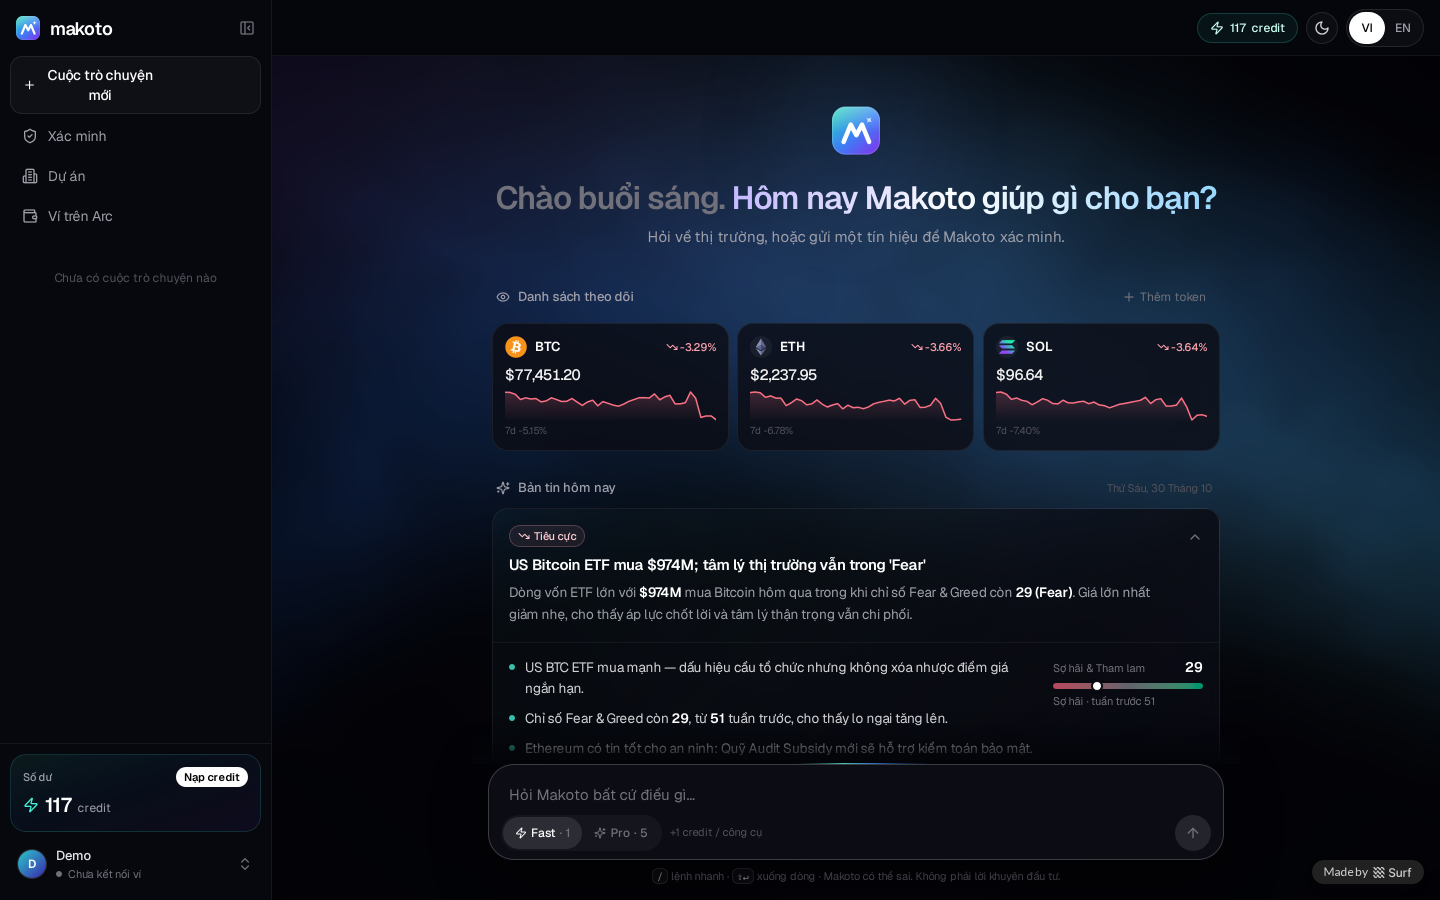
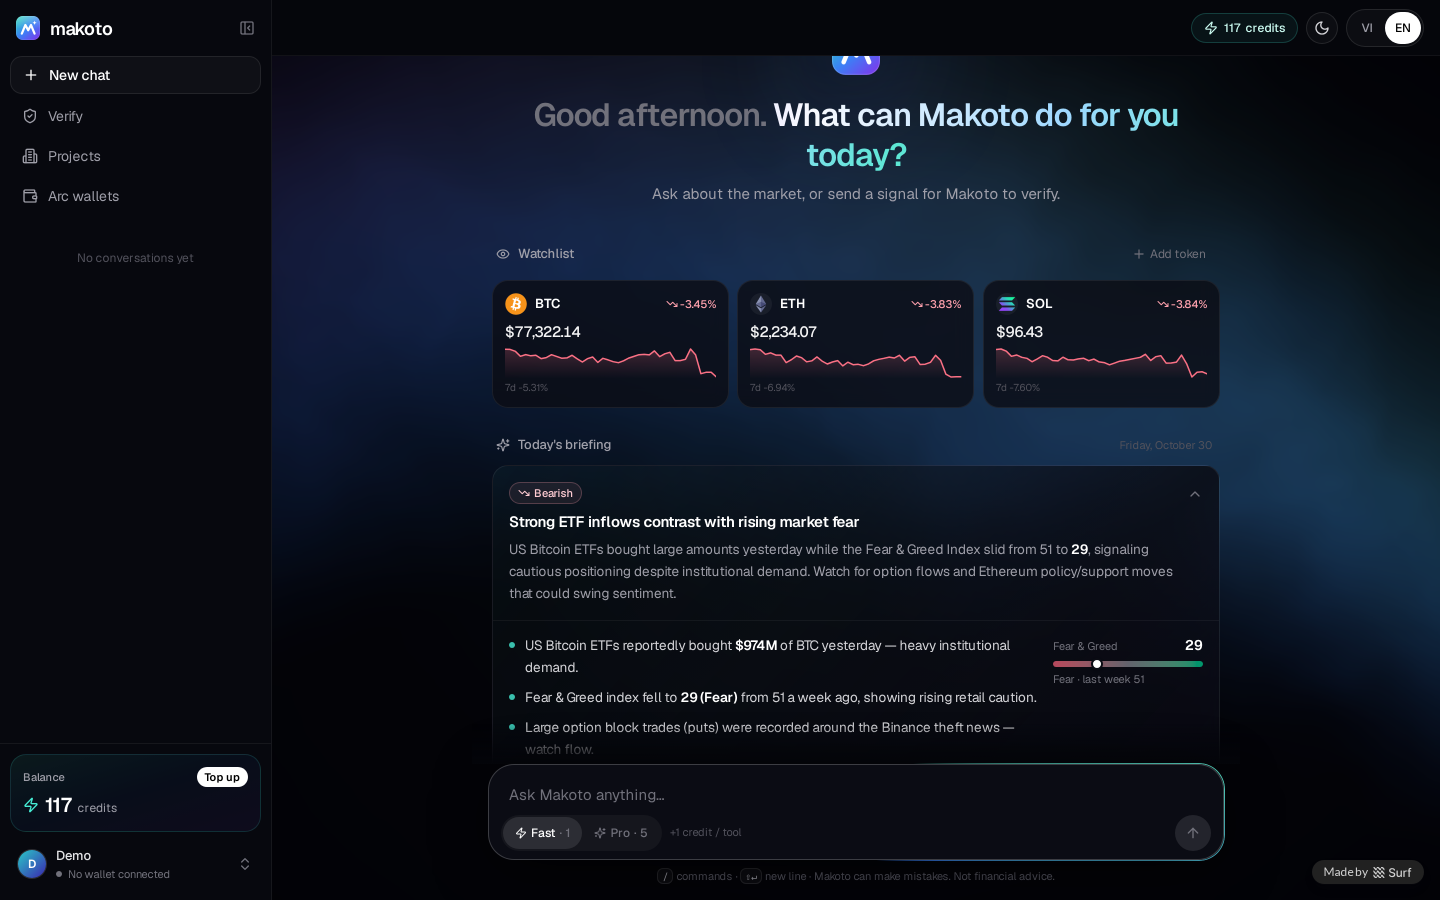
Docs: English README, hero image and screenshots

diff --git a/README.md b/README.md
@@ -1,17 +1,17 @@
 <div align="center">
 
-<img src="docs/hero.png" alt="Makoto — Xác minh trước khi đầu tư" width="100%" />
+<img src="docs/hero.png" alt="Makoto — Verify before you invest" width="100%" />
 
 <br />
 
 # Makoto
 
-**Nền tảng AI xác minh thông tin crypto cho người Việt.**
-Dán một tín hiệu, tin đồn hay địa chỉ token. Makoto đối chiếu với dữ liệu on-chain và thị trường thật, rồi trả về **điểm tin cậy 0–100** kèm lý do rõ ràng.
+**AI-powered verification for crypto signals.**
+Paste a trading signal, rumour or token address. Makoto cross-checks it against live on-chain and market data and returns a **0–100 trust score** with clear reasoning.
 
 [![Live](https://img.shields.io/badge/Live-makotoai.xyz-2DD4BF?style=for-the-badge)](https://makotoai.xyz)
 [![Arc Testnet](https://img.shields.io/badge/Arc-Testnet-3B82F6?style=for-the-badge)](https://explorer.testnet.arc.io)
-[![USDC](https://img.shields.io/badge/Thanh%20toán-USDC-7C3AED?style=for-the-badge)](https://faucet.circle.com)
+[![USDC](https://img.shields.io/badge/Payments-USDC-7C3AED?style=for-the-badge)](https://faucet.circle.com)
 
 [![React](https://img.shields.io/badge/React-19-149ECA?logo=react&logoColor=white)](https://react.dev)
 [![Vite](https://img.shields.io/badge/Vite-646CFF?logo=vite&logoColor=white)](https://vitejs.dev)
@@ -20,132 +20,137 @@ Dán một tín hiệu, tin đồn hay địa chỉ token. Makoto đối chiếu
 [![PostgreSQL](https://img.shields.io/badge/PostgreSQL-4169E1?logo=postgresql&logoColor=white)](https://www.postgresql.org)
 [![OpenAI](https://img.shields.io/badge/OpenAI-412991?logo=openai&logoColor=white)](https://openai.com)
 
-[Dùng thử](https://makotoai.xyz) · [Tính năng](#-tính-năng) · [Cách hoạt động](#-cách-makoto-xác-minh) · [Chạy local](#-chạy-local) · [English](#-english)
+[Try it](https://makotoai.xyz) · [Features](#-features) · [How it works](#-how-verification-works) · [Run locally](#-run-locally) · [Security](#-security)
 
 </div>
 
 ---
 
-## ✨ Giới thiệu
+## ✨ Overview
 
-Thị trường crypto đầy "kèo": *"sắp list Binance"*, *"cá voi đang gom"*, *"x10 trong tuần"*. Phần lớn không kiểm chứng được, và người mới thường là người chịu thiệt.
+Crypto is full of "alpha calls": *"listing on Binance soon"*, *"whales are accumulating"*, *"10x this week"*. Most of them can't be verified, and newcomers are usually the ones who pay for it.
 
-**Makoto** giúp bạn kiểm tra trước khi xuống tiền. Thay vì đọc cảm tính, Makoto tách tín hiệu thành từng nhận định, đối chiếu với dữ liệu thực (giá, hợp đồng token, ví lớn, lịch mở khóa, sàn niêm yết, tin tức), cho hai phe ủng hộ và phản biện tranh luận, rồi mới chấm điểm.
+**Makoto** lets you check before you buy. Instead of going on gut feeling, Makoto:
 
-- 🔐 Đăng nhập bằng **Google**, tặng **20 credit** miễn phí, **không cần ví**.
-- 💳 Nạp thêm credit bằng **USDC trên Arc Testnet**: thanh toán thẳng từ ví của bạn, không qua trung gian.
-- 🇻🇳 Hỗ trợ đầy đủ **tiếng Việt** và **tiếng Anh**, giao diện sáng / tối, dùng tốt trên điện thoại.
+1. breaks a signal into individual claims;
+2. checks each claim against real data: price, token contract, whale wallets, unlock schedule, exchange listings and news;
+3. has a bull side and a bear side argue it out;
+4. only then gives its score.
 
-## 🧩 Tính năng
+- 🔐 **Sign in with Google**: 20 free credits, no wallet required.
+- 💳 **Top up with USDC on Arc Testnet**, paid directly from your own wallet with no middleman.
+- 🌐 **Full English and Vietnamese support**, light and dark themes, mobile-friendly.
 
-| | Tính năng | Mô tả |
+## 🧩 Features
+
+| | Feature | Description |
 |---|---|---|
-| 🛡 | **Xác minh tín hiệu** | Chấm điểm tin cậy 0–100. Kiểm từng nhận định (đúng / sai / gây hiểu lầm), nhận diện chiêu dụ dỗ (hứa lãi, hối thúc, đòi chuyển tiền). |
-| 🔬 | **Phân tích hợp đồng** | Honeypot, thuế mua/bán, quyền chủ hợp đồng, độ tập trung của ví lớn, thanh khoản DEX, lịch mở khóa token. |
-| 💬 | **Trợ lý AI có công cụ** | Hỏi giá, bảng xếp hạng, tin tức, chỉ số Sợ hãi & Tham lam, tra cứu web, ví và giao dịch trên Arc. Mỗi câu trả lời đều dựa trên dữ liệu được truy xuất theo thời gian thực. |
-| 📁 | **Hồ sơ dự án** | Giới thiệu, đội ngũ (kèm tài khoản X đã được đối chiếu), lịch sử gọi vốn, quỹ đầu tư, token, hợp đồng và liên kết chính thức (website, X, Telegram, Discord, GitHub…). |
-| 📰 | **Bản tin & danh sách theo dõi** | Bản tin thị trường mỗi ngày và theo dõi tối đa 12 token với giá, biến động 24h, xu hướng 7 ngày. Miễn phí. |
-| ⛓ | **Ví trên Arc** | Xem số dư, token và giao dịch của bất kỳ địa chỉ nào trên Arc Testnet. |
-| 🧠 | **Trí nhớ cá nhân** | Makoto nhớ sở thích của bạn để trả lời sát hơn. Bạn xem, sửa, xóa hoặc tắt bất cứ lúc nào. |
+| 🛡 | **Signal verification** | 0–100 trust score. Each claim is rated true, false or misleading. Flags manipulation tactics: guaranteed returns, urgency pressure, requests to send funds. |
+| 🔬 | **Contract analysis** | Honeypot detection, buy/sell tax, owner privileges, holder concentration, DEX liquidity and token unlock schedule. |
+| 💬 | **Tool-using AI assistant** | Prices, market rankings, news, the Fear & Greed index, web research, and Arc wallets and transactions. Every answer is grounded in data fetched in real time. |
+| 📁 | **Project profiles** | Overview, team (with cross-checked X accounts), funding history, investors, token, contracts and official links (website, X, Telegram, Discord, GitHub…). |
+| 📰 | **Daily briefing & watchlist** | A daily market briefing, plus a watchlist of up to 12 tokens with price, 24h change and 7-day trend. Free. |
+| ⛓ | **Arc wallet explorer** | Balances, tokens and transactions for any address on Arc Testnet. |
+| 🧠 | **Personal memory** | Makoto remembers your preferences to give more relevant answers. View, edit, delete or turn it off at any time. |
 
-## 📸 Ảnh chụp màn hình
+## 📸 Screenshots
 
 <table>
   <tr>
-    <td width="50%"><img src="docs/verify.png" alt="Kết quả xác minh" /><p align="center"><b>Xác minh</b>: điểm tin cậy và phân tích chi tiết</p></td>
-    <td width="50%"><img src="docs/app-home.png" alt="Trang chính" /><p align="center"><b>Trang chính</b>: danh sách theo dõi và bản tin</p></td>
+    <td width="50%"><img src="docs/verify.png" alt="Verification report" /><p align="center"><b>Verify</b>: trust score and detailed analysis</p></td>
+    <td width="50%"><img src="docs/app-home.png" alt="Home" /><p align="center"><b>Home</b>: watchlist and daily briefing</p></td>
   </tr>
   <tr>
-    <td width="50%"><img src="docs/projects.png" alt="Hồ sơ dự án" /><p align="center"><b>Dự án</b>: các dự án vừa gọi vốn</p></td>
-    <td width="50%"><img src="docs/landing.png" alt="Trang giới thiệu" /><p align="center"><b>Trang giới thiệu</b></p></td>
+    <td width="50%"><img src="docs/projects.png" alt="Project profiles" /><p align="center"><b>Projects</b>: recently funded projects</p></td>
+    <td width="50%"><img src="docs/landing.png" alt="Landing page" /><p align="center"><b>Landing page</b></p></td>
   </tr>
 </table>
 
-## 🔍 Cách Makoto xác minh
+## 🔍 How verification works
 
 ```mermaid
 flowchart LR
-    A["📝 Tín hiệu<br/>tin đồn / token / địa chỉ"] --> B["1. Tách nhận định<br/>token, hợp đồng, lời hứa"]
-    B --> C["2. Thu thập dữ liệu thật"]
-    C --> C1["Giá & thanh khoản DEX"]
-    C --> C2["Bảo mật hợp đồng<br/>(GoPlus)"]
-    C --> C3["Ví lớn & mở khóa token"]
-    C --> C4["Sàn niêm yết, KOL, tin tức"]
-    C1 & C2 & C3 & C4 --> D["3. Tranh luận<br/>ủng hộ ⚔ phản biện"]
-    D --> E["4. Chấm điểm<br/>0–100 + lý do"]
+    A["📝 Signal<br/>rumour / token / address"] --> B["1. Extract claims<br/>token, contract, promises"]
+    B --> C["2. Gather live data"]
+    C --> C1["Price & DEX liquidity"]
+    C --> C2["Contract security<br/>(GoPlus)"]
+    C --> C3["Whale wallets & unlocks"]
+    C --> C4["Listings, KOLs, news"]
+    C1 & C2 & C3 & C4 --> D["3. Debate<br/>bull ⚔ bear"]
+    D --> E["4. Verdict<br/>0–100 + reasoning"]
 ```
 
-1. **Tách nhận định**: AI đọc tín hiệu và rút ra token, địa chỉ hợp đồng, các lời hứa cụ thể.
-2. **Thu thập dữ liệu**: lấy song song từ nhiều nguồn. Nguồn nào lỗi thì bỏ qua, các nguồn còn lại vẫn được dùng.
-3. **Tranh luận**: một phe tìm điểm mạnh, một phe tìm điểm yếu, chỉ dựa trên bằng chứng đã thu thập.
-4. **Chấm điểm**: điểm tin cậy, kết luận cho từng nhận định, dấu hiệu thao túng và lời khuyên.
+1. **Extract claims.** The model reads the signal and pulls out the token, contract address and each specific promise.
+2. **Gather data.** Sources are queried in parallel. If one source fails it is skipped, and the rest are still used.
+3. **Debate.** One side argues for the signal and the other against it, using only the evidence collected.
+4. **Verdict.** A trust score, a ruling on each claim, any manipulation flags, and practical advice.
 
-> Chỉ trừ credit khi có kết quả. Nếu xác minh thất bại, bạn không mất credit nào.
+> You are only charged when a result is delivered. If a verification fails, no credits are used.
 
-## 💳 Credit
+## 💳 Credits
 
-| Hành động | Chi phí |
+| Action | Cost |
 |---|---|
-| Hỏi **Makoto Fast** | 1 credit + 1 credit cho mỗi công cụ được dùng |
-| Hỏi **Makoto Pro** (phân tích sâu hơn) | 5 credit + 2 credit cho mỗi công cụ được dùng |
-| **Xác minh** một tín hiệu | 3 credit |
-| Bản tin, danh sách theo dõi, hồ sơ dự án | Miễn phí |
+| Ask **Makoto Fast** | 1 credit + 1 credit per tool used |
+| Ask **Makoto Pro** (deeper analysis) | 5 credits + 2 credits per tool used |
+| **Verify** a signal | 3 credits |
+| Briefing, watchlist, project profiles | Free |
 
-Tài khoản mới được tặng **20 credit**. Nạp thêm bằng USDC trên Arc Testnet:
+New accounts get **20 free credits**. Top up with USDC on Arc Testnet:
 
-| Gói | USDC | Credit | Thưởng |
+| Pack | USDC | Credits | Bonus |
 |---|---:|---:|---:|
-| Gói nhỏ | 1 | 100 | — |
-| Gói vừa | 5 | 550 | +10% |
-| Gói lớn | 10 | 1.200 | +20% |
-| Gói rất lớn | 25 | 3.250 | +30% |
+| Small | 1 | 100 | — |
+| Medium | 5 | 550 | +10% |
+| Large | 10 | 1,200 | +20% |
+| XL | 25 | 3,250 | +30% |
 
-USDC được chuyển thẳng tới ví kho bạc Makoto [`0x1629…586b`](https://explorer.testnet.arc.io/address/0x16299b74c616994eaecb9b20e37d369d5d62586b). Máy chủ đọc giao dịch trên chuỗi để xác nhận rồi mới cộng credit; mỗi giao dịch chỉ được cộng một lần. Nhận USDC thử nghiệm miễn phí tại [faucet.circle.com](https://faucet.circle.com).
+USDC goes directly to the Makoto treasury wallet [`0x1629…586b`](https://explorer.testnet.arc.io/address/0x16299b74c616994eaecb9b20e37d369d5d62586b). The server reads the transaction on-chain before adding credits, and each transaction can only be credited once. Get free test USDC at [faucet.circle.com](https://faucet.circle.com).
 
-## 🏗 Kiến trúc
+## 🏗 Architecture
 
 ```mermaid
 flowchart LR
-    U["Người dùng<br/>(trình duyệt)"] -->|HTTPS| F["Frontend<br/>React 19 · Vite · Tailwind 4"]
+    U["User<br/>(browser)"] -->|HTTPS| F["Frontend<br/>React 19 · Vite · Tailwind 4"]
     F -->|"/api/*"| B["Backend<br/>Express"]
     B --> O["OpenAI<br/>(Makoto Fast / Pro)"]
-    B --> S["Surf Data API<br/>giá, tin tức, dự án, on-chain"]
-    B --> G["GoPlus<br/>bảo mật token"]
-    B --> A["Arc Testnet RPC<br/>xác nhận thanh toán USDC"]
+    B --> S["Surf Data API<br/>prices, news, projects, on-chain"]
+    B --> G["GoPlus<br/>token security"]
+    B --> A["Arc Testnet RPC<br/>USDC payment checks"]
     B --> D[("PostgreSQL")]
 ```
 
-| Lớp | Công nghệ |
+| Layer | Technology |
 |---|---|
 | Frontend | React 19, Vite, Tailwind CSS 4, TanStack Query, Motion, ECharts, lucide-react |
 | Backend | Node.js, Express, Surf SDK, viem |
-| Cơ sở dữ liệu | PostgreSQL (schema Drizzle) |
-| AI | OpenAI, gọi từ máy chủ, trả lời dạng stream |
-| Dữ liệu | Surf Data API, GoPlus Security, CoinGecko, Arc Testnet RPC |
-| Đăng nhập | Google Sign-In; ví (MetaMask, Rabby, WalletConnect) chỉ để nạp USDC |
+| Database | PostgreSQL (Drizzle schema) |
+| AI | OpenAI, called server-side with streamed responses |
+| Data | Surf Data API, GoPlus Security, CoinGecko, Arc Testnet RPC |
+| Auth | Google Sign-In. A wallet (MetaMask, Rabby, WalletConnect) is only needed for USDC top-ups. |
 
-### Cấu trúc thư mục
+### Project structure
 
 ```
 .
-├── frontend/                 # Ứng dụng web (Vite + React)
+├── frontend/                 # Web app (Vite + React)
 │   └── src/
 │       ├── components/makoto/
-│       │   ├── landing/      # Trang giới thiệu
-│       │   ├── chat/         # Trợ lý AI, trang chính, bản tin
-│       │   ├── verify/       # Xác minh tín hiệu & báo cáo
-│       │   └── project/      # Hồ sơ dự án
-│       └── lib/              # Phiên đăng nhập, i18n, ví, định dạng
+│       │   ├── landing/      # Landing page
+│       │   ├── chat/         # AI assistant, home, briefing
+│       │   ├── verify/       # Signal verification & reports
+│       │   └── project/      # Project profiles
+│       └── lib/              # Session, i18n, wallet, formatting
 ├── backend/                  # API (Express)
-│   ├── routes/               # Tự động gắn vào /api/<tên file>
-│   ├── lib/                  # Agent, công cụ, xác minh, thanh toán, Arc
-│   └── db/schema.js          # Bảng dữ liệu
-└── docs/                     # Ảnh dùng trong README
+│   ├── routes/               # Auto-mounted at /api/<file name>
+│   ├── lib/                  # Agent, tools, verification, payments, Arc
+│   └── db/schema.js          # Database tables
+└── docs/                     # README images
 ```
 
-## 🚀 Chạy local
+## 🚀 Run locally
 
-**Yêu cầu:** Node.js 20+ hoặc [Bun](https://bun.sh), PostgreSQL, và các khóa API bên dưới.
+**Requirements:** Node.js 20+ or [Bun](https://bun.sh), PostgreSQL, and the API keys below.
 
 ```bash
 git clone https://github.com/congthuat/Makoto-Ai-Arc-Testnet-.git
@@ -153,42 +158,34 @@ cd Makoto-Ai-Arc-Testnet-
 
 # Backend
 cd backend
-cp .env.example .env        # điền các biến môi trường
+cp .env.example .env        # fill in the environment variables
 bun install
 bun run dev                 # http://localhost:3001
 
-# Frontend (cửa sổ terminal khác)
+# Frontend (in a second terminal)
 cd ../frontend
 cp .env.example .env
 bun install
 bun run dev                 # http://localhost:5173
 ```
 
-| Biến môi trường | Mô tả |
+| Variable | Description |
 |---|---|
-| `OPENAI_API_KEY` | Khóa OpenAI, **chỉ dùng ở máy chủ** |
-| `SURF_API_KEY` | Khóa Surf Data API (dữ liệu thị trường & cơ sở dữ liệu) |
-| `GOOGLE_CLIENT_ID` | OAuth Client ID loại Web, dạng `….apps.googleusercontent.com` |
-| `TREASURY_ADDRESS` | Ví nhận USDC khi người dùng nạp credit |
-| `BACKEND_PORT` | Cổng backend, mặc định `3001` |
+| `OPENAI_API_KEY` | OpenAI key, **server-side only** |
+| `SURF_API_KEY` | Surf Data API key (market data & database) |
+| `GOOGLE_CLIENT_ID` | OAuth Web client ID, ending in `.apps.googleusercontent.com` |
+| `TREASURY_ADDRESS` | Wallet that receives USDC top-ups |
+| `BACKEND_PORT` | Backend port, default `3001` |
 
-> ⚠ Không bao giờ commit file `.env`. File này đã nằm trong `.gitignore`.
+> ⚠ Never commit your `.env` file. It is already listed in `.gitignore`.
 
-## 🔒 Bảo mật
+## 🔒 Security
 
-- Khóa OpenAI và mọi khóa API chỉ nằm ở máy chủ, không bao giờ gửi xuống trình duyệt.
-- Makoto **không bao giờ** yêu cầu private key hay cụm từ khôi phục (seed phrase). Nạp tiền là giao dịch bạn tự ký trong ví của mình.
-- Mỗi giao dịch USDC được kiểm tra trên chuỗi (đúng người gửi, đúng ví nhận, đúng số tiền) và chỉ được cộng credit một lần.
-- Credit được giữ trước rồi trừ đúng phần đã dùng. Công cụ bị lỗi hay xác minh thất bại thì không tính tiền.
-- Lỗi máy chủ không làm lộ thông tin kỹ thuật bên trong. Trợ lý chỉ đọc được các trang web công khai, không truy cập được mạng nội bộ.
-
-## 🌐 English
-
-**Makoto** is an AI platform for verifying crypto information, built for Vietnamese users (full English support included). Paste a trading signal, rumour or token address: Makoto breaks it into individual claims and checks each one against live market and on-chain data (prices, DEX liquidity, GoPlus contract security, whale concentration, token unlocks, exchange listings, KOL wallets, news). It runs a bull-vs-bear debate grounded in that evidence and returns a **0–100 trust score** with clear reasoning.
-
-It also includes a tool-using AI assistant, project profiles (team, funding, investors, official links), a free daily briefing and watchlist, an Arc wallet explorer and personal memory. Sign in with Google and get 20 free credits; top up with **USDC on Arc Testnet**, sent directly from your own wallet.
-
-**Stack:** React 19 · Vite · Tailwind CSS 4 · Express · PostgreSQL · OpenAI · Surf Data API · viem · Arc Testnet.
+- The OpenAI key and all other API keys live on the server only and are never sent to the browser.
+- Makoto **never** asks for a private key or seed phrase. Top-ups are transactions you sign in your own wallet.
+- Every USDC payment is checked on-chain (correct sender, correct recipient, correct amount) and credited only once.
+- Credits are held up front and only what was actually used is charged. Failed tools and failed verifications are free.
+- Server errors never expose internal details. The assistant can only read public web pages and cannot reach internal networks.
 
 ---
 
@@ -196,6 +193,6 @@ It also includes a tool-using AI assistant, project profiles (team, funding, inv
 
 **[makotoai.xyz](https://makotoai.xyz)**
 
-<sub>⚠ Makoto cung cấp thông tin tham khảo, <b>không phải lời khuyên đầu tư</b>. Hãy luôn tự nghiên cứu (DYOR) trước khi quyết định.</sub>
+<sub>⚠ Makoto provides information for reference only and is <b>not financial advice</b>. Always do your own research (DYOR).</sub>
 
 </div>
